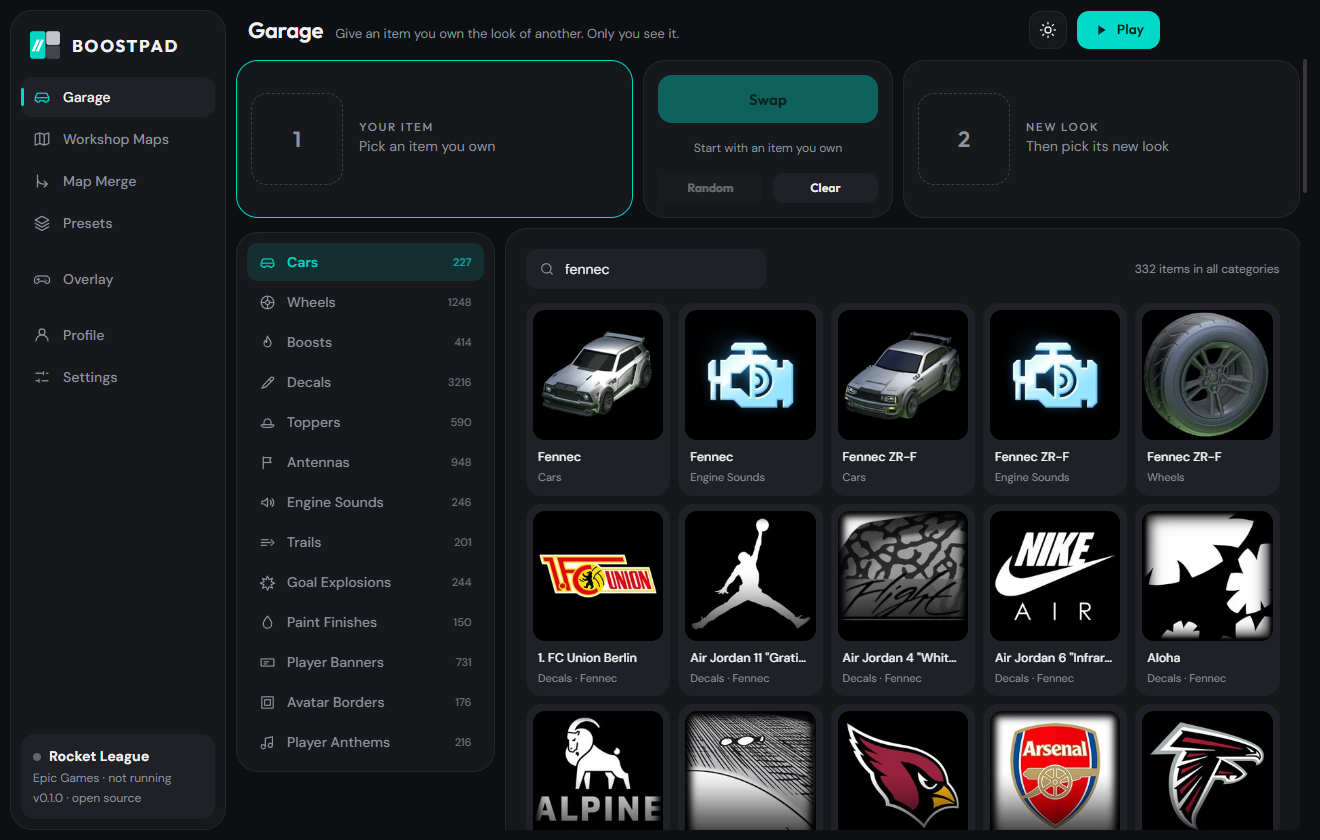
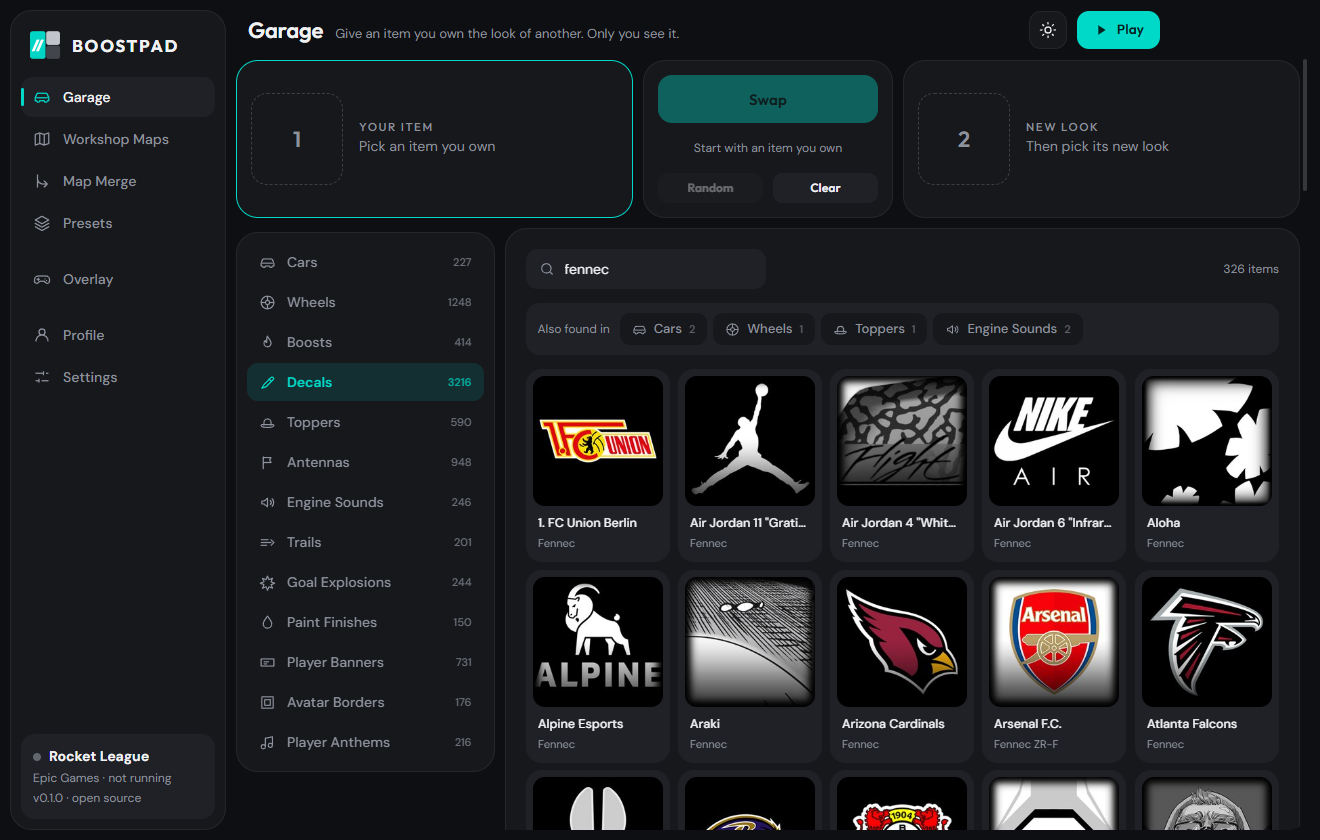
Garage: a section lists only its own items, also while searching
Search no longer mixes in matches from other sections. It stays in the
current section and offers the other sections that have a match as links
(which keep the search text).

diff --git a/src/renderer/app.js b/src/renderer/app.js
@@ -379,10 +379,9 @@ views.garage = () => {
   }
 
   function cell(i, n, blocked) {
-    // under the name: the car a decal is for, or (when searching everywhere) the category
-    const sub = everywhere() ? [catalog.catLabel[i.category], i.sub].filter(Boolean).join(' · ') : i.sub;
+    // under the name: the car a decal is made for
     return h('button', { class: `cell${blocked ? ' no' : ''}`, 'data-id': i.id, style: n < 24 && `--i:${n}`, 'aria-label': i.label, onclick: () => pickItem(i, ui.slot) },
-      picture(i, i.category), h('span', { class: 'name' }, i.label), sub && h('span', { class: 'sub' }, sub));
+      picture(i, i.category), h('span', { class: 'name' }, i.label), i.sub && h('span', { class: 'sub' }, i.sub));
   }
   function mark() { // show which cells are picked, without rebuilding them
     for (const el of grid.children) {
@@ -399,8 +398,19 @@ views.garage = () => {
   const sentinel = h('div', { style: 'height:1px' });
   let list = [], shown = 0;
   const picking = () => ui.slot === 'dst' && ui.src; // choosing a look for a known item
-  // A search looks in every category, until you are choosing a look (that has to match your item's category).
-  const everywhere = () => !!ui.q.trim() && !picking();
+  // A section only ever lists its own items. When a search also matches items in
+  // other sections, they are offered here as links instead of being mixed in.
+  const elsewhere = h('div', { class: 'elsewhere' });
+  const jump = (id) => () => { ui.cat = id; ui.src = ui.dst = ui.check = null; ui.slot = 'src'; popGrid = true; render(); }; // keeps the search text
+  function paintElsewhere(q, here) {
+    const found = {};
+    if (q && !picking()) for (const i of catalog.items) if (i.category !== ui.cat && i.search.includes(q)) found[i.category] = (found[i.category] || 0) + 1;
+    const others = catalog.categories.filter((c) => found[c.id]);
+    elsewhere.hidden = !others.length && !(q && !here);
+    elsewhere.replaceChildren(
+      h('span', { class: 'muted small' }, !others.length ? `Nothing called “${ui.q.trim()}” in any section.` : here ? 'Also found in' : `Nothing in ${catalog.catLabel[ui.cat]} called “${ui.q.trim()}”. Found in`),
+      ...others.map((c) => h('button', { class: 'chip', onclick: jump(c.id) }, icon(c.id, 15), c.label, h('small', {}, found[c.id]))));
+  }
   function more() {
     if (shown >= list.length) return;
     const blocked = (i) => !!picking() && i !== ui.src && !canSwap(ui.src, i);
@@ -414,8 +424,9 @@ views.garage = () => {
   const io = new IntersectionObserver((entries) => { if (entries.some((e) => e.isIntersecting)) more(); }, { root: document.getElementById('view'), rootMargin: '500px' });
   function fill() {
     const q = ui.q.trim().toLowerCase();
-    list = (everywhere() ? catalog.items : pool()).filter((i) => !q || i.search.includes(q));
+    list = pool().filter((i) => !q || i.search.includes(q));
     const total = list.length;
+    paintElsewhere(q, total);
     const works = picking() ? list.filter((i) => canSwap(ui.src, i)).length : total;
     if (picking() && ui.only) list = list.filter((i) => canSwap(ui.src, i) || i === ui.src);
     // best matches first when searching (name starts with the text), then items with a readable picture
@@ -424,7 +435,7 @@ views.garage = () => {
     grid.replaceChildren();
     shown = 0;
     more();
-    count.textContent = picking() ? `${works} of ${total} looks work with ${ui.src.label}` : everywhere() ? `${plural(total, 'item')} in all categories` : plural(total, 'item');
+    count.textContent = picking() ? `${works} of ${total} looks work with ${ui.src.label}` : plural(total, 'item');
     only.replaceChildren(...(picking() ? [toggle(ui.only, (v) => { ui.only = v; fill(); }), 'Only looks that work'] : []));
   }
   garage = { paintBar, fill, mark, io };
@@ -450,9 +461,9 @@ views.garage = () => {
     icon(c.id, 17), h('span', { class: 'grow' }, c.label), h('small', {}, catalog.counts[c.id] || 0)))),
     tile('s9',
       h('div', { class: 'row wrap' }, h('label', { class: 'search' }, icon('search', 16),
-        field({ placeholder: 'Search all items by name', value: ui.q, oninput: (e) => { ui.q = e.target.value; fill(); } })),
+        field({ placeholder: `Search ${catalog.catLabel[ui.cat].toLowerCase()}`, value: ui.q, oninput: (e) => { ui.q = e.target.value; fill(); } })),
       only, h('span', { class: 'grow' }), count),
-      grid, sentinel));
+      elsewhere, grid, sentinel));
   return root;
 };
 
@@ -463,8 +474,8 @@ async function pickItem(item, which) {
   if (which === 'src') {
     ui.slot = 'dst';
     if (ui.dst && (ui.dst.category !== item.category || !canSwap(item, ui.dst))) ui.dst = null;
-    // found through a search in another category: go there to choose its new look
-    if (item.category !== ui.cat || ui.q) { ui.cat = item.category; ui.q = ''; render(); return; }
+    // picked from a search: clear it, so the looks to choose from are not filtered by it
+    if (ui.q) { ui.q = ''; render(); return; }
   }
   garage.paintBar();
   if (which === 'src') garage.fill(); else garage.mark();

diff --git a/src/renderer/styles.css b/src/renderer/styles.css
@@ -264,6 +264,9 @@ main { display: flex; flex-direction: column; gap: 10px; min-width: 0; min-heigh
 .cell:focus-visible { outline: 2px solid var(--accent); outline-offset: 2px; }
 .cell .name { font-size: 12.5px; font-weight: 500; padding: 0 5px; overflow: hidden; text-overflow: ellipsis; white-space: nowrap; }
 .cell .sub { font-size: 11px; color: var(--muted); padding: 0 5px; margin-top: -6px; overflow: hidden; text-overflow: ellipsis; white-space: nowrap; }
+.elsewhere { display: flex; align-items: center; flex-wrap: wrap; gap: 6px; padding: 10px 12px; border-radius: 14px; background: var(--tile-2); animation: fade .25s; }
+.elsewhere > span { margin-right: 4px; }
+.elsewhere .chip { background: var(--tile); }
 .cell.no { opacity: .32; }
 .cell.no:hover { opacity: .75; }
 .cell.src { border-color: var(--text); }

diff --git a/README.md b/README.md
@@ -23,7 +23,7 @@ No account, no subscription, no server. Everything runs on your PC, and every ga
 
 | Tab | What it does |
 | --- | --- |
-| **Garage** | Give an item you own the look of another item (cars, wheels, boosts, decals, toppers, antennas, engine sounds, trails, goal explosions, paint finishes, banners, borders, anthems). Items are shown with their real names and pictures, read from your own game files, and the search looks through every category at once. Once you pick your item, only the looks that work with it are listed. Everything applied or queued is listed there with a Revert button. |
+| **Garage** | Give an item you own the look of another item (cars, wheels, boosts, decals, toppers, antennas, engine sounds, trails, goal explosions, paint finishes, banners, borders, anthems). Items are shown with their real names and pictures, read from your own game files, and each section lists only its own items. A search stays in the section you are in and tells you which other sections also have a match. Once you pick your item, only the looks that work with it are listed. Everything applied or queued is listed there with a Revert button. |
 | **Workshop Maps** | Load a training/challenge map into the Underpass slot and play it from Free Play. |
 | **Map Merge** | Mix the game's own arenas: put the stadium of one arena into the surroundings of another, and add snow where the game has something to do it with. Experimental. |
 | **Presets** | Save everything that is active and switch setups in one click. Unlimited. Copy a preset as a code to pass it on. |
